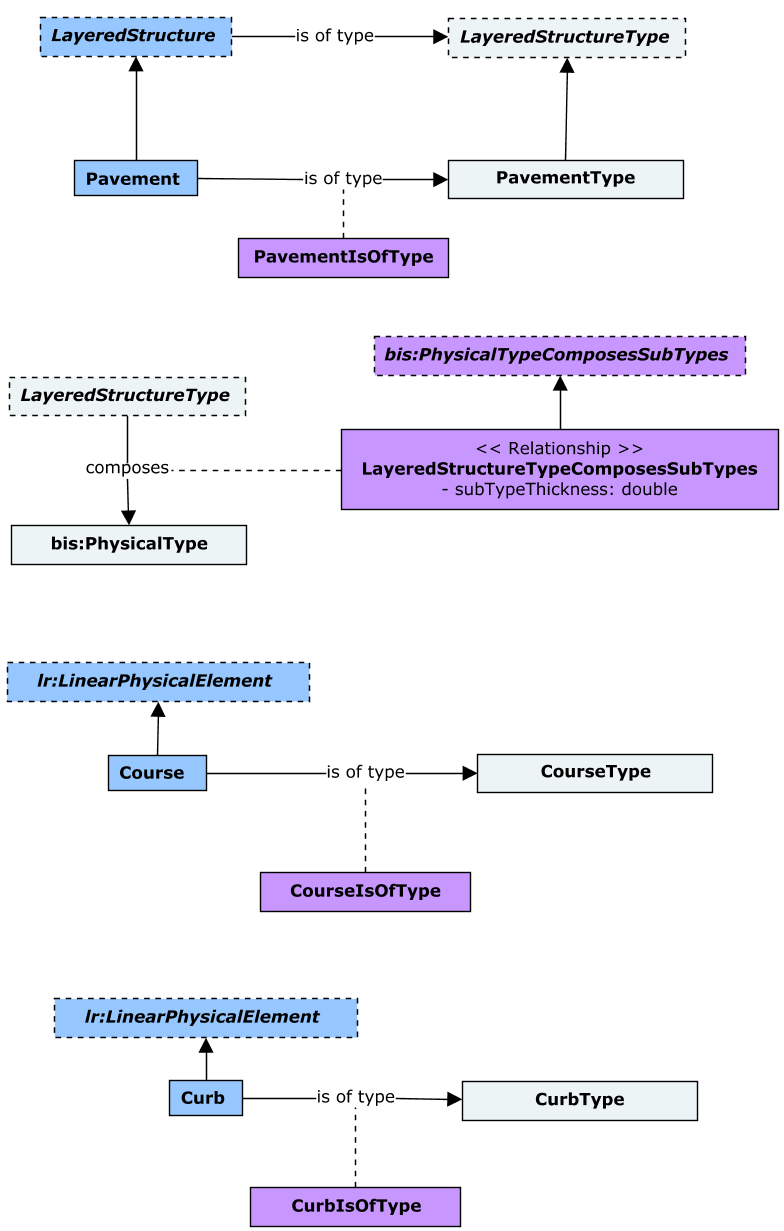
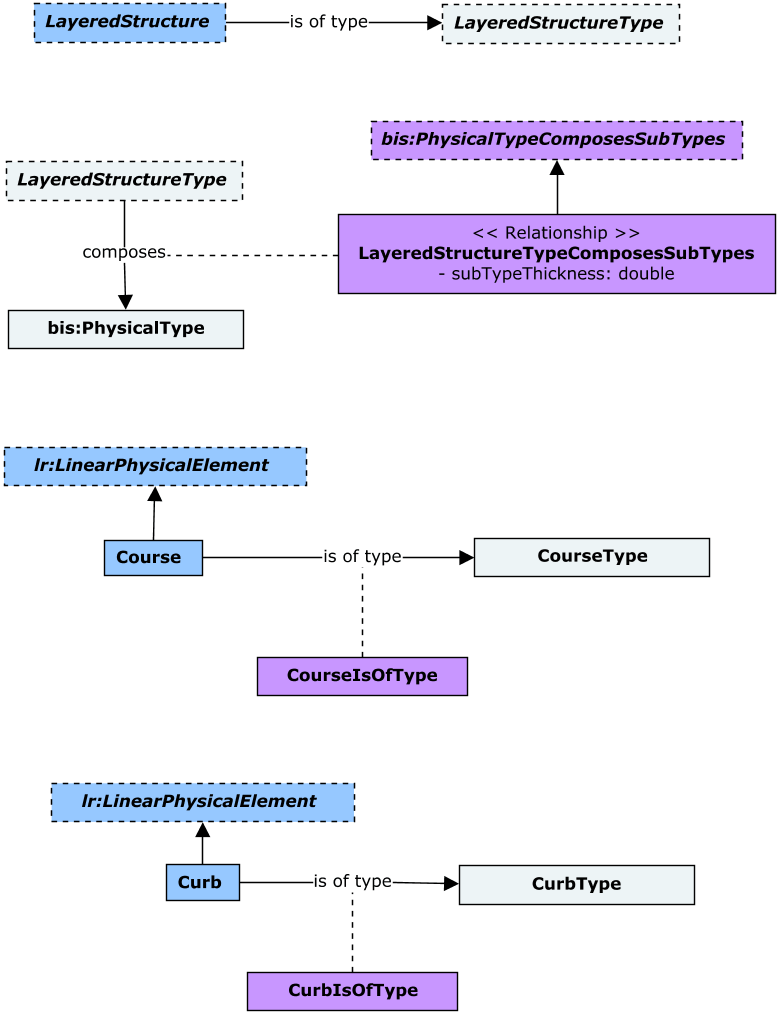
Delay introduction of Pavement classes.

diff --git a/Domains/2-DisciplinePhysical/Civil/CivilPhysical/CivilPhysical.remarks.md b/Domains/2-DisciplinePhysical/Civil/CivilPhysical/CivilPhysical.remarks.md
@@ -49,23 +49,11 @@ A `Curb` is typically a border of stone, concrete or other rigid material formed
 
 Equivalent to [IfcKerb](http://ifc43-docs.standards.buildingsmart.org/IFC/RELEASE/IFC4x3/HTML/lexical/IfcKerb.htm).
 
-### PavementType
-
-Instances of `PavementType` provide an additional classification that can be applied to `Pavement`s.
-
-Equivalent to [IfcPavementType](http://ifc43-docs.standards.buildingsmart.org/IFC/RELEASE/IFC4x3/HTML/lexical/IfcPavementType.htm).
-
-### Pavement
-
-`Pavement` instances must be contained in `PhysicalModel`s.
-
-Equivalent to [IfcPavement](http://ifc43-docs.standards.buildingsmart.org/IFC/RELEASE/IFC4x3/HTML/lexical/IfcPavement.htm).
-
 ### LayeredStructureType
 
 A `LayeredStructureType` associates the `bis:PhysicalType`s modeling the layers that it is composed of via the `LayeredStructureTypeComposesSubTypes` relationship. The _thickness_ and _order_ of each layer that a specifc `LayeredStructureType` is composed of is captured by the _SubTypeThickness_ and _MemberPriority_ properties of the `LayeredStructureTypeComposesSubTypes` table-relationship respectively.
 
-Therefore, individual `bis:PhysicalType`s (e.g. `CourseType`) composing a `LayeredStructureType` do not capture a _thickness_ measurement by themselves; one needs to introduce the larger context (i.e. a `LayeredStructureType` they are composing - e.g. `PavementType`) in order to capture their _thickness_ and _order_ with respect to the overall structure.
+Therefore, individual `bis:PhysicalType`s (e.g. `CourseType`) composing a `LayeredStructureType` do not capture a _thickness_ measurement by themselves; one needs to introduce the larger context (i.e. a `LayeredStructureType` they are composing - e.g. a particular Pavement Design) in order to capture their _thickness_ and _order_ with respect to the overall structure.
 
 ## Relationship Classes
 